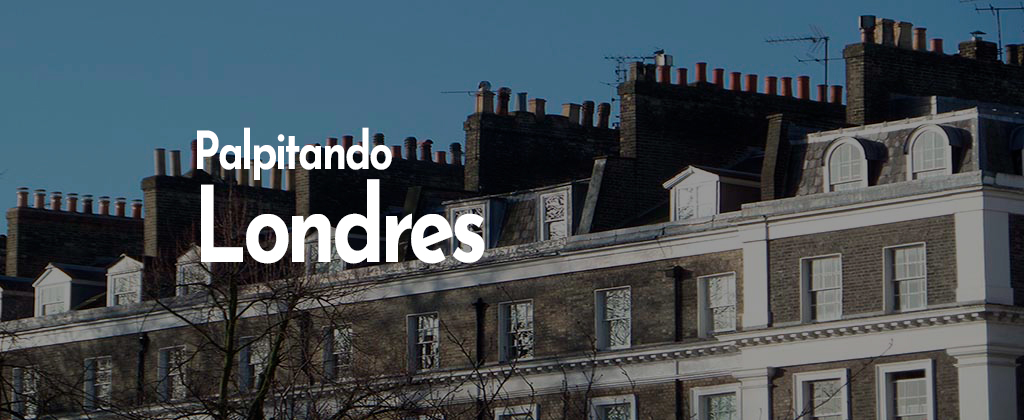
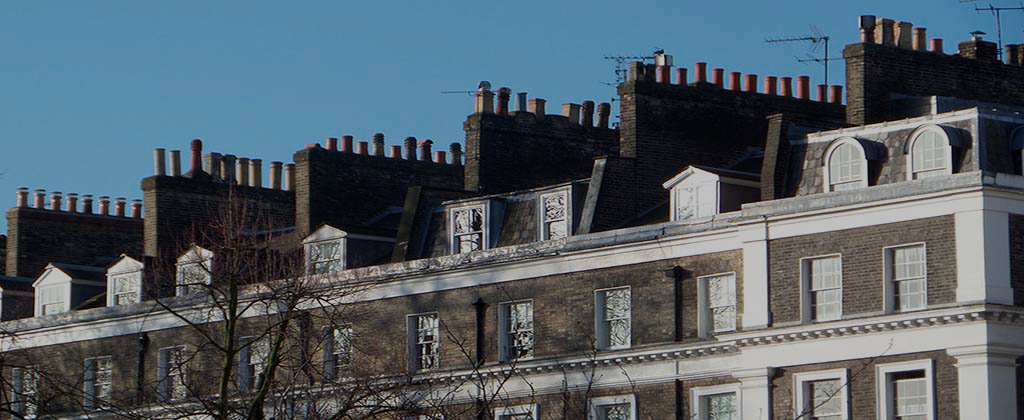
texto en slide

diff --git a/index.html b/index.html
@@ -13,8 +13,6 @@
     <link href="css/main.css" rel="stylesheet" type="text/css">
 </head>
     <body>
-       
-                
             <!--Aca empieza el encabezado -->
               
                 <header>
@@ -67,7 +65,6 @@
             </div>
             <!--Aca Termina el encabezado -->  
              
-                
                 <!--SLIDE de Boostrap -->
                 <div class="slideGrid">
                     <div id="carouselExampleIndicators" class="carousel slide auto carousel-fade" data-bs-ride="carousel">
@@ -82,27 +79,39 @@
                           <div class="carousel-item active" data-bs-interval="2000">
                             <a href="pages/tresDias/tresDiasEnRoma.html">
                             <img src="images/Coliseo-Romano_s.jpg" class="d-block w-100" alt="Coliseo">
-                            <p class="d-none d-block-sm">Que hacer 3 días en Roma</p> 
-                          </a>
+                            <div class="carousel-caption d-none d-md-block">
+                            <p class="slider__titulo">Que hacer 3 días en Roma</p>
+                            </div>
+                            </a>
                           </div>
 
                           <div class="carousel-item" data-bs-interval="2000">
                             <a href="pages/relatos/menos_mal_paris.html">
-                            <img src="images/torre_eiffel_s.jpg" class="d-block w-100" alt="Torre"></a>
+                            <img src="images/torre_eiffel_s.jpg" class="d-block w-100" alt="Torre">
+                            <div class="carousel-caption d-none d-md-block">
+                            <p class="slider__titulo">Menos mal que les queda París</p>
+                            </div>
+                            </a>
                           </div>
 
                           <div class="carousel-item" data-bs-interval="2000">
                             <a href="pages/relatos/del_otro_lado.html">
-                            <img src="images/Cinqueterre_Italia_s.jpg" class="d-block w-100" alt="Cinque Terre"></a>
+                            <img src="images/Cinqueterre_Italia_s.jpg" class="d-block w-100" alt="Cinque Terre">
+                            <div class="carousel-caption d-none d-md-block">
+                            <p class="slider__titulo">Del otro lado del Rompecabezas</p>
+                            </div>
+                            </a>
                           </div>
 
                           <div class="carousel-item" data-bs-interval="2000">
                             <a href="pages/relatos/palpitandoLondres.html">
-                            <img src="images/Casas-de-Londres_s.jpg" class="d-block w-100" alt="Casas típicas de Londres"></a>
+                            <img src="images/Casas-de-Londres_s.jpg" class="d-block w-100" alt="Casas típicas de Londres">
+                            <div class="carousel-caption d-none d-md-block">
+                            <p class="slider__titulo">Palpitando Londres</p>
+                            </div></a>
                           </div>
 
                         </div>
-
                         <a class="carousel-control-prev" href="#carouselExampleIndicators" role="button" data-bs-slide="prev">
                           <span class="carousel-control-prev-icon" aria-hidden="true"></span>
                           <span class="visually-hidden">Previous</span>

diff --git a/css/main.css b/css/main.css
@@ -99,6 +99,7 @@ nav ul {
   -webkit-box-pack: space-evenly;
       -ms-flex-pack: space-evenly;
           justify-content: space-evenly;
+  margin-left: 10%;
 }
 
 .ingreso {
@@ -109,6 +110,13 @@ nav ul {
   width: 100%;
   text-align: center;
   margin-bottom: 30px;
+}
+
+.slider__titulo {
+  color: white;
+  font-size: 6em;
+  font-family: 'Josefin Sans','Lato', sans-serif;
+  text-align: left;
 }
 
 footer {

diff --git a/sass/_titulos.scss b/sass/_titulos.scss
@@ -71,6 +71,7 @@ nav ul {
     flex-direction: row;
     align-items: center;
     justify-content: space-evenly;
+    margin-left: 10%;
     
 }
 
@@ -82,4 +83,11 @@ nav ul {
     width: 100%;
     text-align: center;
     margin-bottom: 30px;
+}
+
+.slider__titulo{
+    color: white;
+    font-size:6em;
+    font-family: 'Josefin Sans','Lato', sans-serif;
+    text-align: left;
 }
